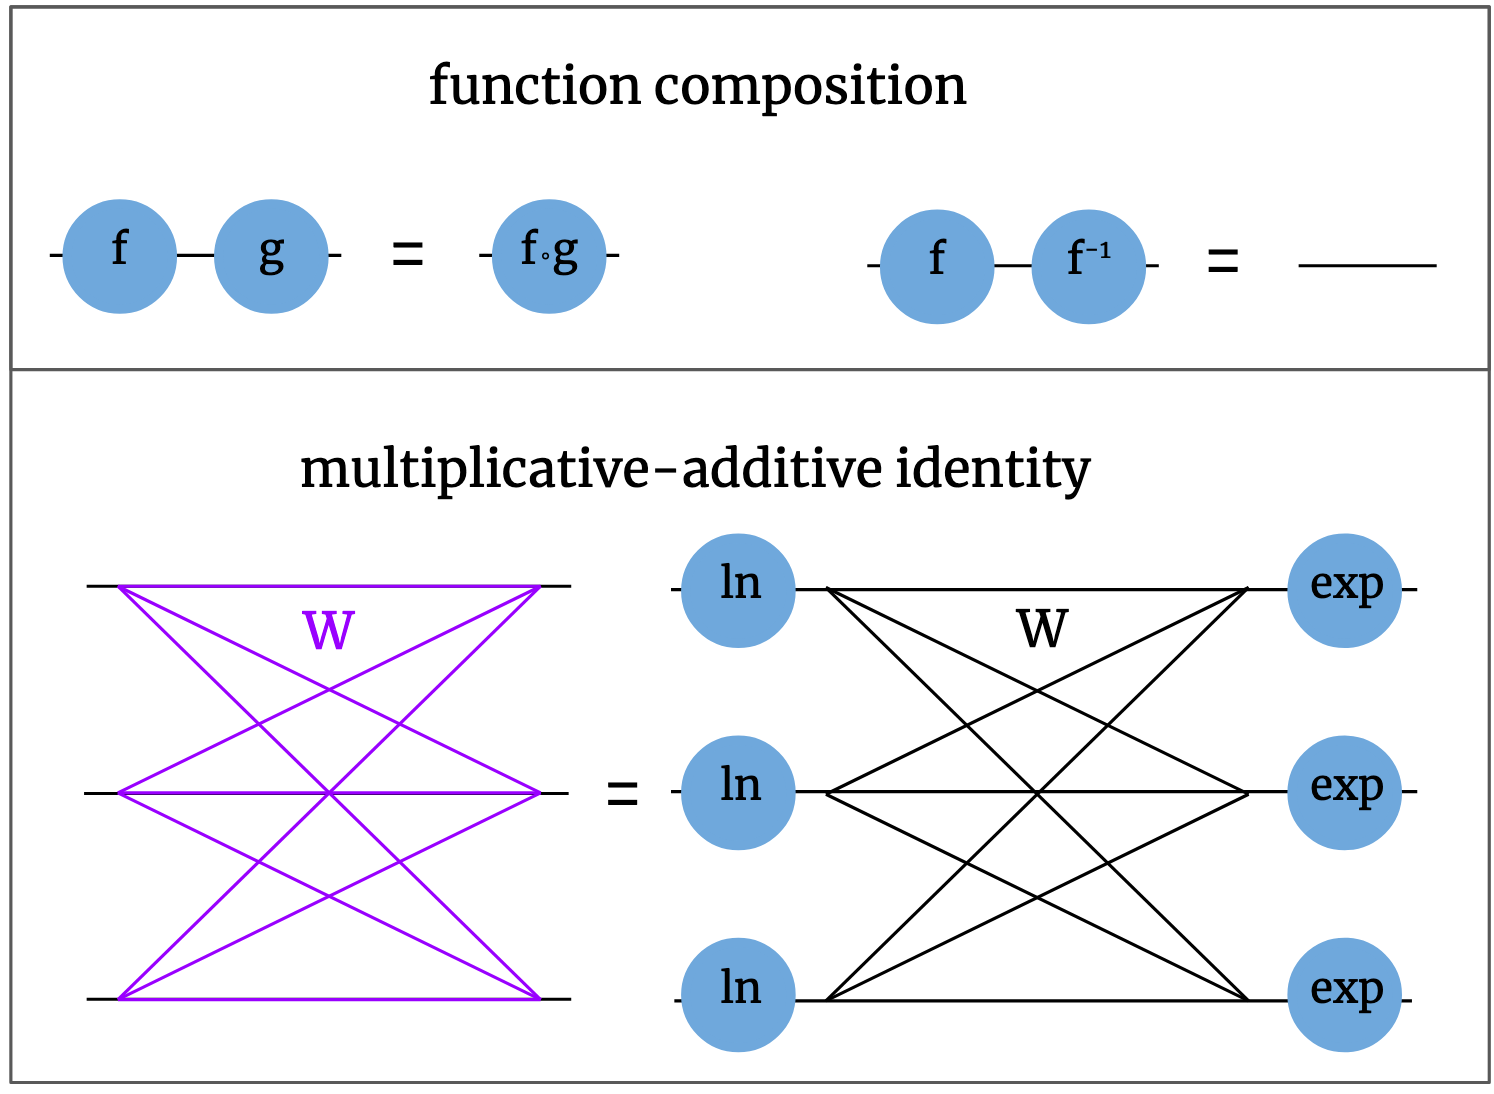
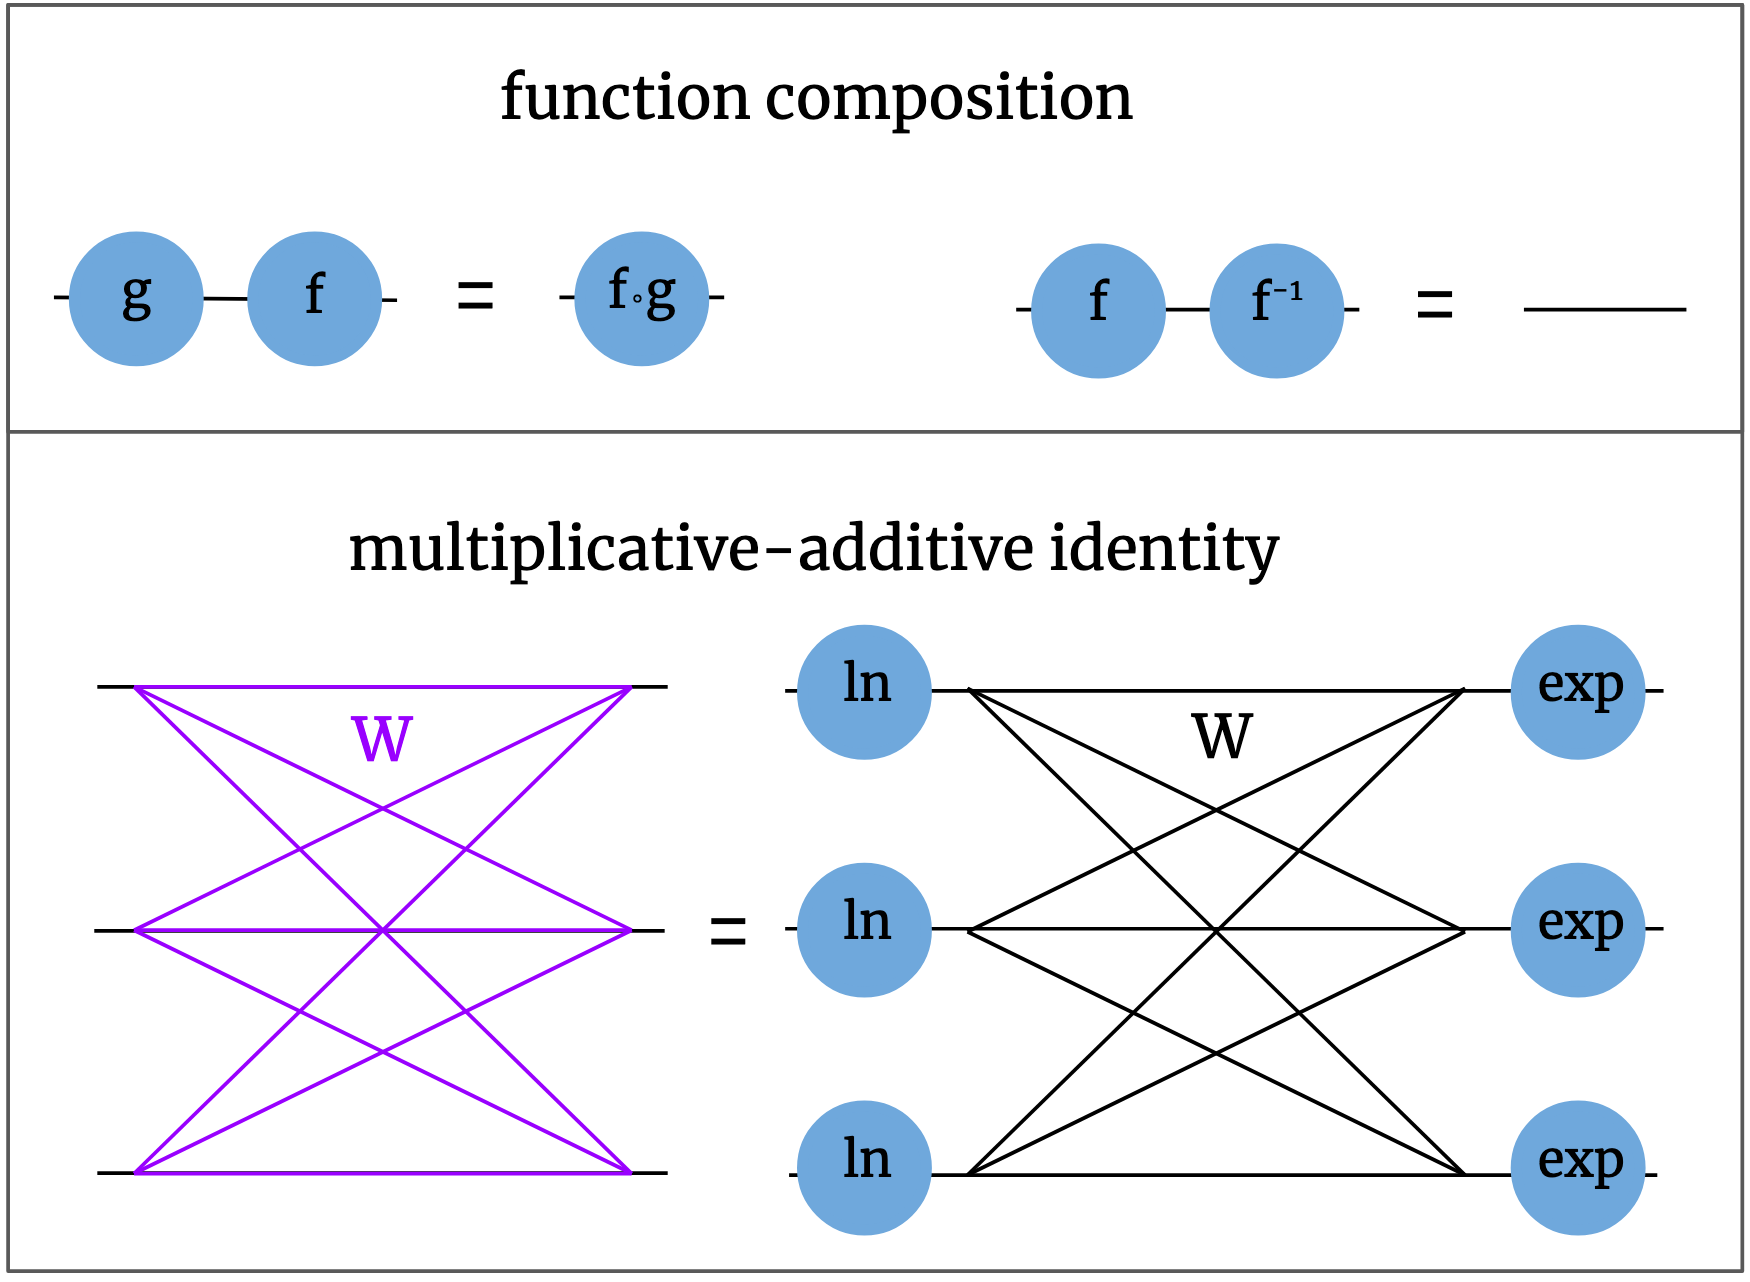
tweaked multiplcative net post

diff --git a/_posts/2020-08-31-multiplicative-neural-nets.md b/_posts/2020-08-31-multiplicative-neural-nets.md
@@ -44,7 +44,7 @@ We can now build neural nets out of these components.  For example, the followin
    <img src="{{site.imgurl}}/net_diagrams/net_example.png" width="60%">
 </p>
 
-There are a few different ways we can manipulate these diagrams while still keeping the model the same.  The first way is *function composition*.  If there are two nonlinear functions in a row, we can just replace them with one new function.  This is just saying that the double function application $$f(g(x))$$ is equivalent to the single function application $$h(x)$$, defining $$h = f \circ g$$.  One special, familiar case is when the two functions are each other's inverses, and the new function is simply the identity; for example, $$\ln(\exp(x)) = x$$.  Instead of writing the identity function explicitly, we can just write a line.  There's also the multiplicative-additive net identity we talked about earlier: $$\prod_j x_j ^ {w_{ij}} = \exp \big( \sum_j w_{ij} \ln(x_j) \big)$$.  A multiplicative layer is the same as an additive layer with logarithms before and exponentials afterwards.  We can write these rules like this:
+There are a few different ways we can manipulate these diagrams while still keeping the model the same.  The first way is *function composition*.  If there are two nonlinear functions in a row, we can just replace them with one new function.  This is just saying that the double function application $$f(g(x))$$ is equivalent to the single function application $$h(x)$$, defining $$h = f \circ g$$.  One special, familiar case is when the two functions are each other's inverses, and the new function is simply the identity; for example, $$\ln(\exp(x)) = x$$.  Instead of writing the identity function explicitly, we can just write a line.  Note that in the notation $$f \circ g$$, functions are applied right to left, but in our diagramas, everything flows from left to right, so the ordering of the composed functions might seem backwards at first.  There's also the multiplicative-additive net identity we talked about earlier: $$\prod_j x_j ^ {w_{ij}} = \exp \big( \sum_j w_{ij} \ln(x_j) \big)$$.  A multiplicative layer is the same as an additive layer with logarithms before and exponentials afterwards.  We can write these rules like this:
 
 <p align="center">
    <img src="{{site.imgurl}}/net_diagrams/net_diagram_rules.png" width="40%">
